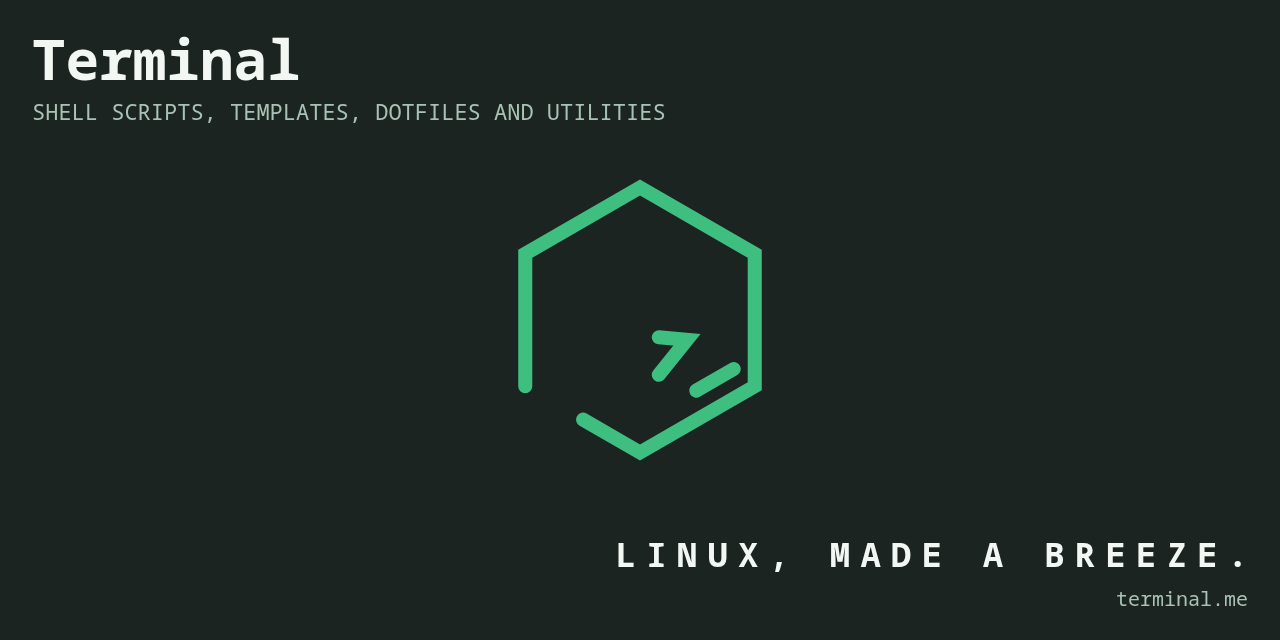
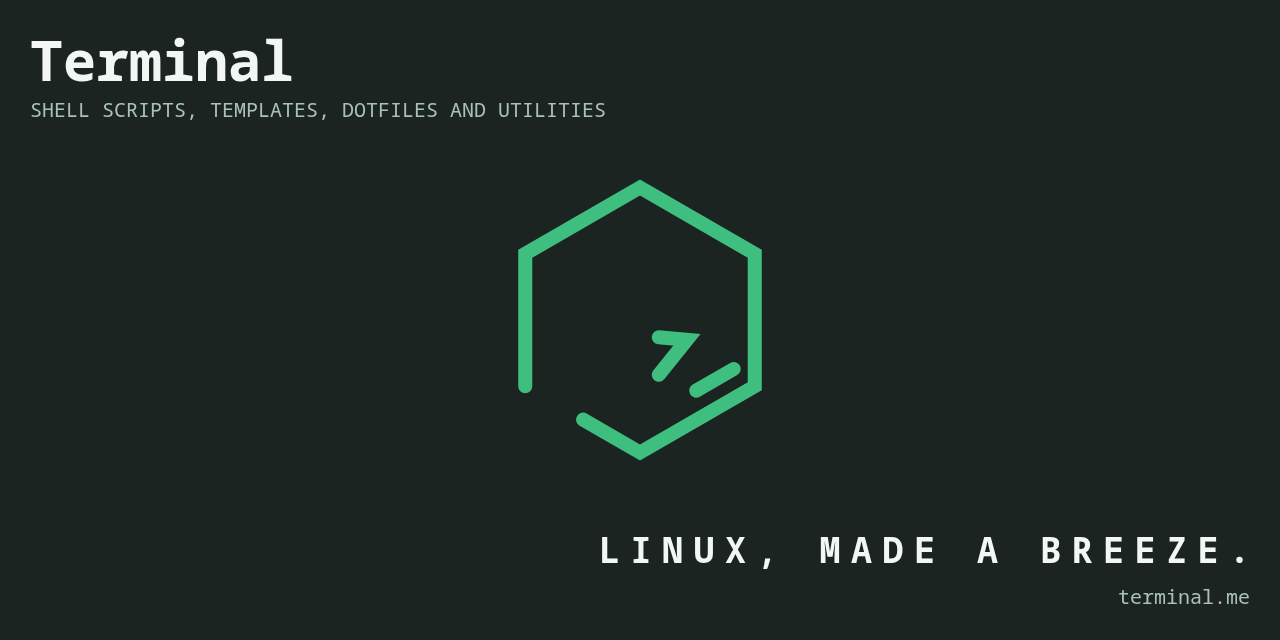
Code & Features Update

diff --git a/index.html b/index.html
@@ -130,7 +130,7 @@
 				color: #a9c2b5;
 				margin: 0;
 				padding: 0 0 100px 0;
-				font-size: 14px;
+				font-size: 15px;
 				line-height: 1.6;
 				overflow-x: hidden;
 			}
@@ -183,7 +183,7 @@
 				border-radius: 0;
 				overflow: visible;
 				color: #222d28;
-				font-size: clamp(5px, min(1.6vh, 2.4vw), 14px);
+				font-size: clamp(5px, min(1.6vh, 2.4vw), 15px);
 				line-height: 1;
 				zoom: 2;
 			}
@@ -203,7 +203,7 @@
 			}
 
 			.head-landing h1 {
-				font-size: clamp(22px, 4vw, 40px);
+				font-size: clamp(20px, 4vw, 40px);
 			}
 
 			.head-landing p {
@@ -248,7 +248,7 @@
 			}
 
 			.foot-landing h2 {
-				font-size: clamp(12px, 3.3vw, 30px);
+				font-size: clamp(20px, 3.3vw, 30px);
 				white-space: nowrap;
 			}
 
@@ -301,12 +301,12 @@
 			}
 
 			.head-section h2 {
-				font-size: clamp(18px, 2.6vw, 26px);
+				font-size: clamp(20px, 2.5vw, 25px);
 			}
 
 			.section h3 {
 				margin: 30px 0 10px 0;
-				font-size: 16px;
+				font-size: 15px;
 			}
 
 			.lead {
@@ -326,7 +326,7 @@
 
 			.points li {
 				border-left: 5px solid #3fbf7f;
-				padding: 2.5px 0 2.5px 10px;
+				padding: 5px 0 5px 10px;
 			}
 
 			.points code {
@@ -500,7 +500,7 @@
 
 			figcaption {
 				padding: 5px 5px 0 5px;
-				font-size: 12px;
+				font-size: 10px;
 				text-align: center;
 			}
 
@@ -601,7 +601,7 @@
 				border-radius: 20px;
 				padding: 5px 10px;
 				margin: 5px 0;
-				font-size: 12px;
+				font-size: 10px;
 				white-space: nowrap;
 			}
 
@@ -614,7 +614,7 @@
 			}
 
 			pre.diagram {
-				font-size: 12px;
+				font-size: 10px;
 				line-height: 1.25;
 			}
 
@@ -678,7 +678,7 @@
 				border: 0;
 				border-radius: 20px;
 				color: #f2f7f4;
-				font-size: 14px;
+				font-size: 15px;
 				outline: none;
 			}
 
@@ -744,11 +744,11 @@
 
 			.head-command h3 {
 				margin: 0;
-				font-size: 16px;
+				font-size: 15px;
 			}
 
 			.meta-command {
-				font-size: 12px;
+				font-size: 10px;
 				color: #7d9488;
 			}
 
@@ -761,7 +761,7 @@
 				padding: 10px 15px;
 				border-radius: 10px;
 				background: #1b2420;
-				font-size: 12px;
+				font-size: 10px;
 				white-space: pre-wrap;
 			}
 
@@ -804,7 +804,7 @@
 				border-radius: 10px;
 				padding: 5px 10px;
 				margin: 0 0 5px 0;
-				font-size: 12px;
+				font-size: 10px;
 			}
 
 			.tag {
@@ -814,7 +814,7 @@
 				border-radius: 20px;
 				padding: 5px 10px;
 				margin: 5px 0;
-				font-size: 12px;
+				font-size: 10px;
 				white-space: nowrap;
 			}
 
@@ -828,7 +828,7 @@
 				background: #1b2420;
 				border-radius: 20px;
 				padding: 5px 10px;
-				font-size: 12px;
+				font-size: 10px;
 				color: #f2f7f4;
 			}
 
@@ -994,12 +994,12 @@
 
 			.button-navigation {
 				flex: none;
-				width: 80px;
-				padding: 10px 0 0 0;
+				min-width: 80px;
+				padding: 10px 10px 0 10px;
 				color: #a9c2b5;
 				text-align: center;
 				text-decoration: none;
-				font-size: 12px;
+				font-size: 15px;
 			}
 
 			.button-navigation .icon {
@@ -1029,7 +1029,7 @@
 				margin: 20px auto 0 auto;
 				padding: 20px 0;
 				border-top: 2px solid #2a3731;
-				font-size: 12px;
+				font-size: 10px;
 			}
 
 			.copyright p {
@@ -1099,7 +1099,7 @@
 				color: #f2f7f4;
 				border-radius: 20px;
 				padding: 15px 20px;
-				font-size: 12px;
+				font-size: 10px;
 				line-height: 1.4;
 				overflow-x: auto;
 				white-space: pre;
@@ -1131,7 +1131,7 @@
 				background: #222d28;
 				border-radius: 15px;
 				padding: 10px;
-				font-size: 12px;
+				font-size: 10px;
 			}
 
 			.swatch span {
@@ -1161,7 +1161,7 @@
 
 			.command th, .command td {
 				padding: 5px 10px;
-				font-size: 12px;
+				font-size: 10px;
 			}
 
 			@media (max-width: 800px) {
